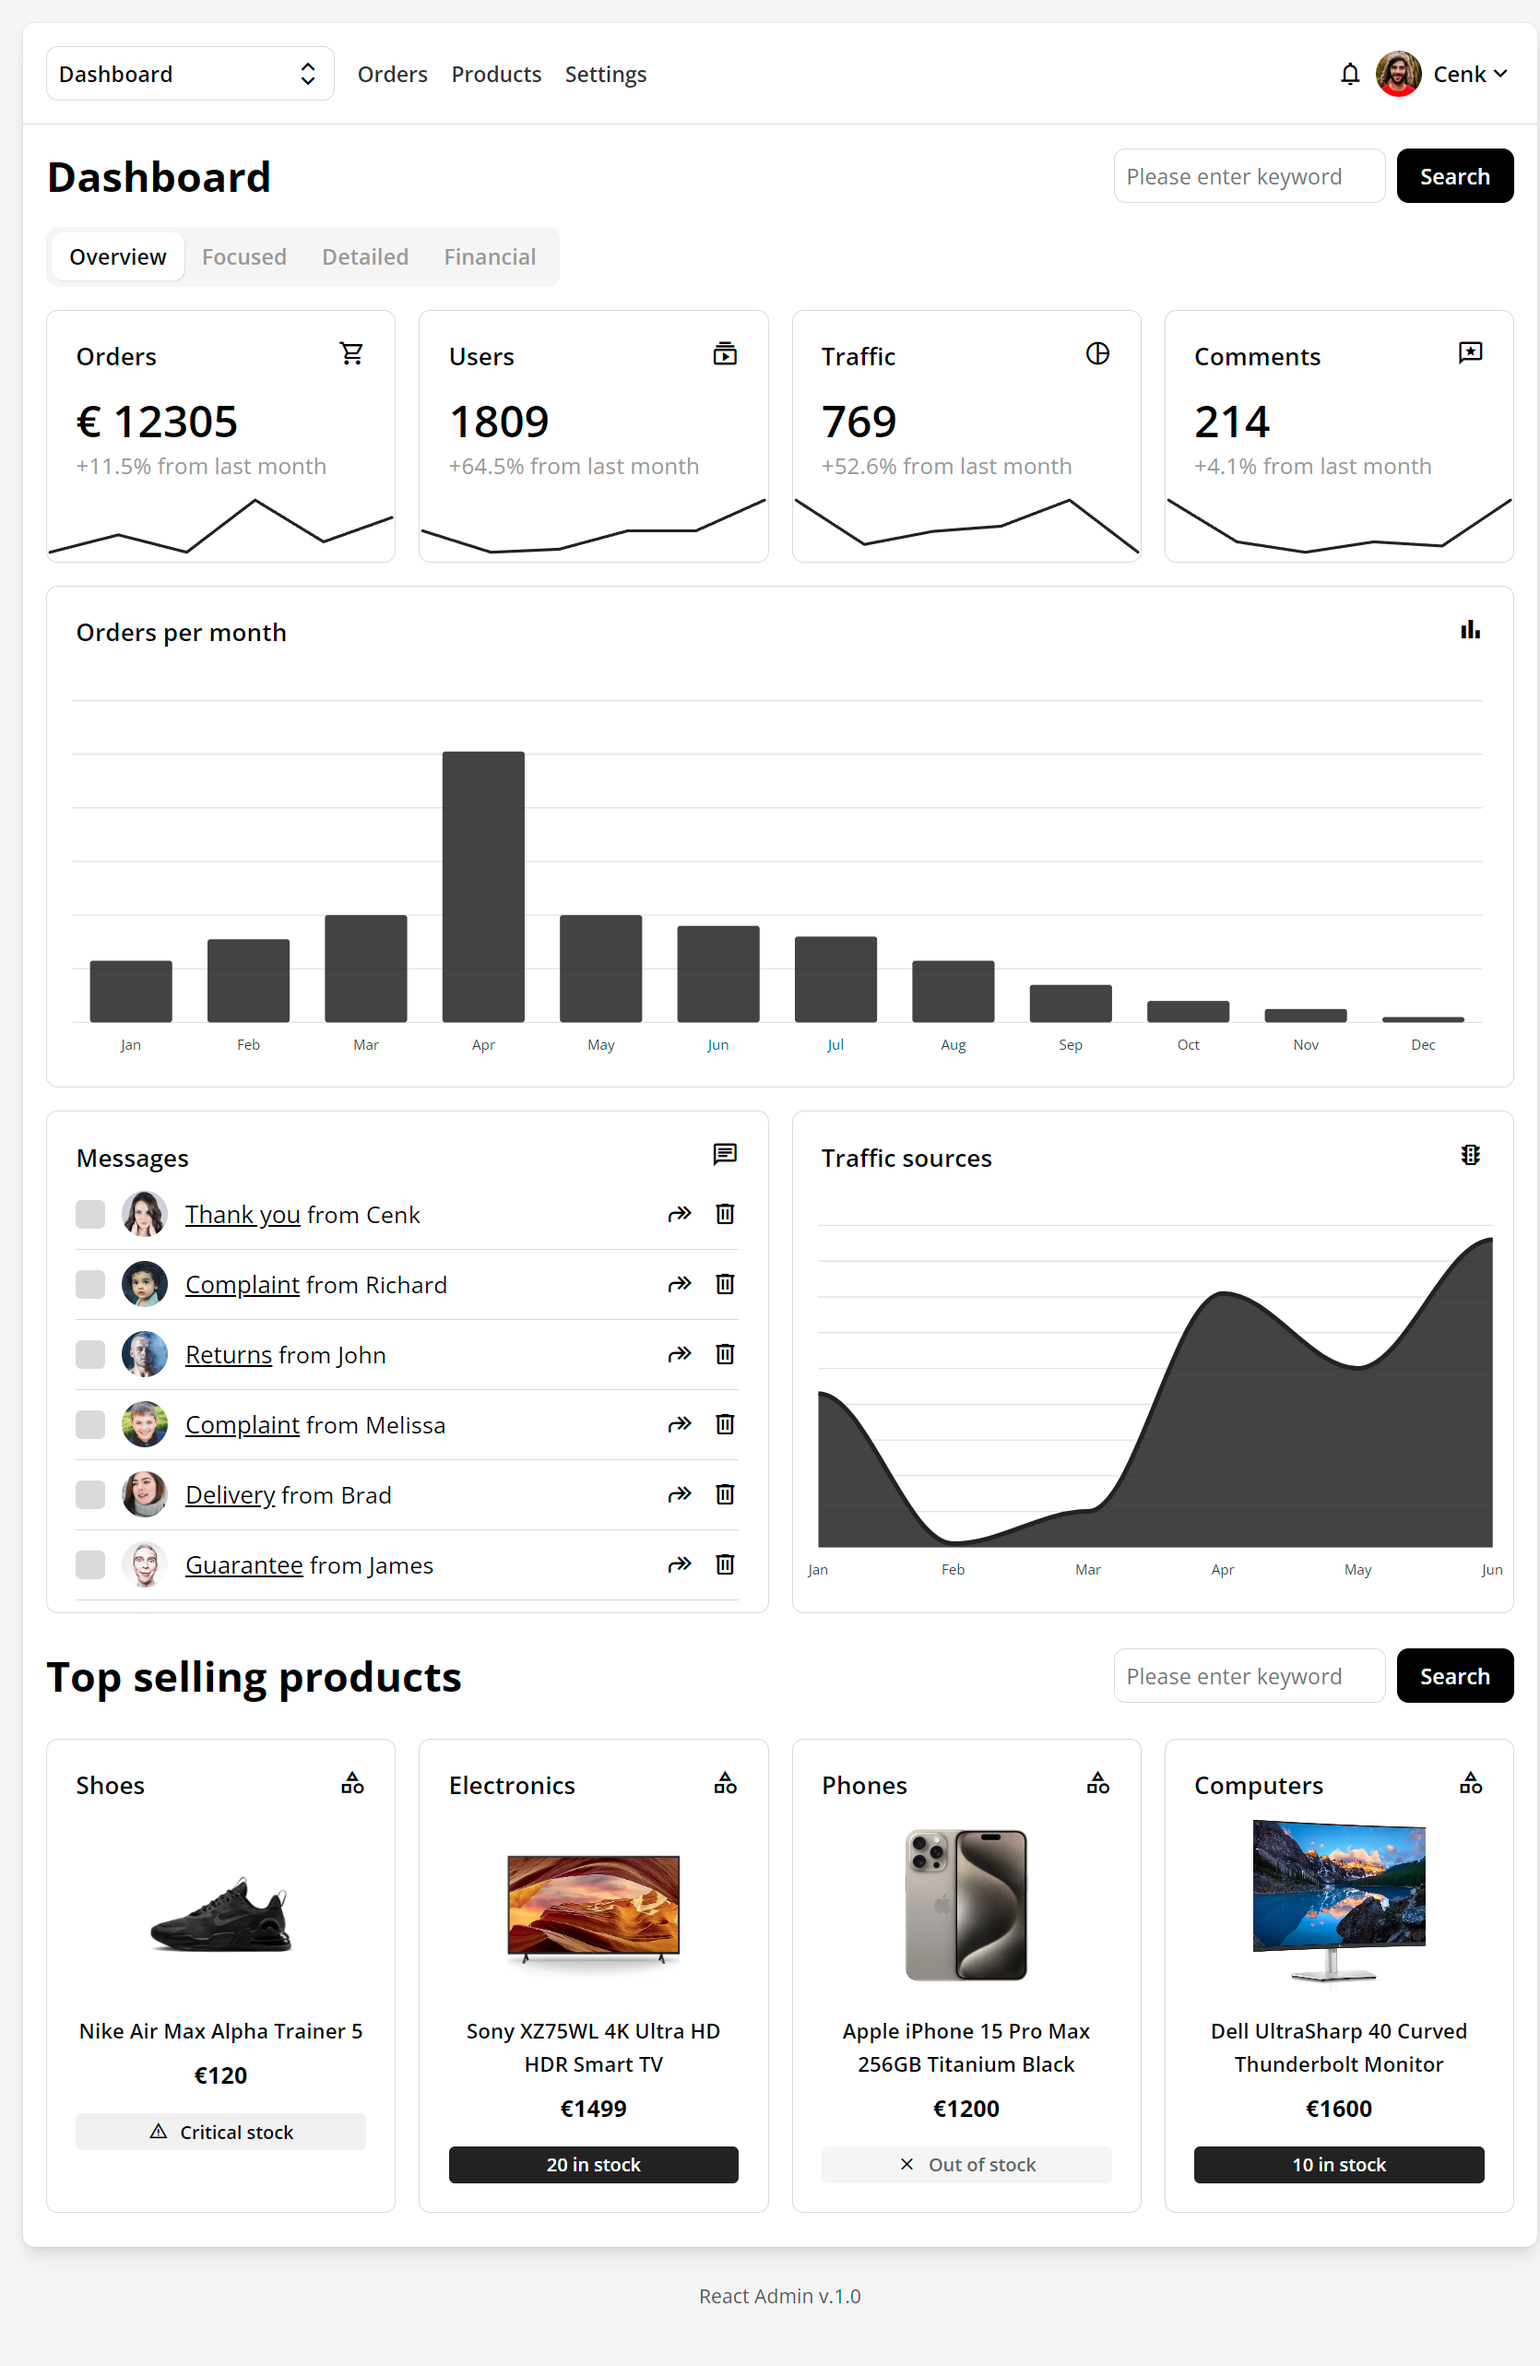
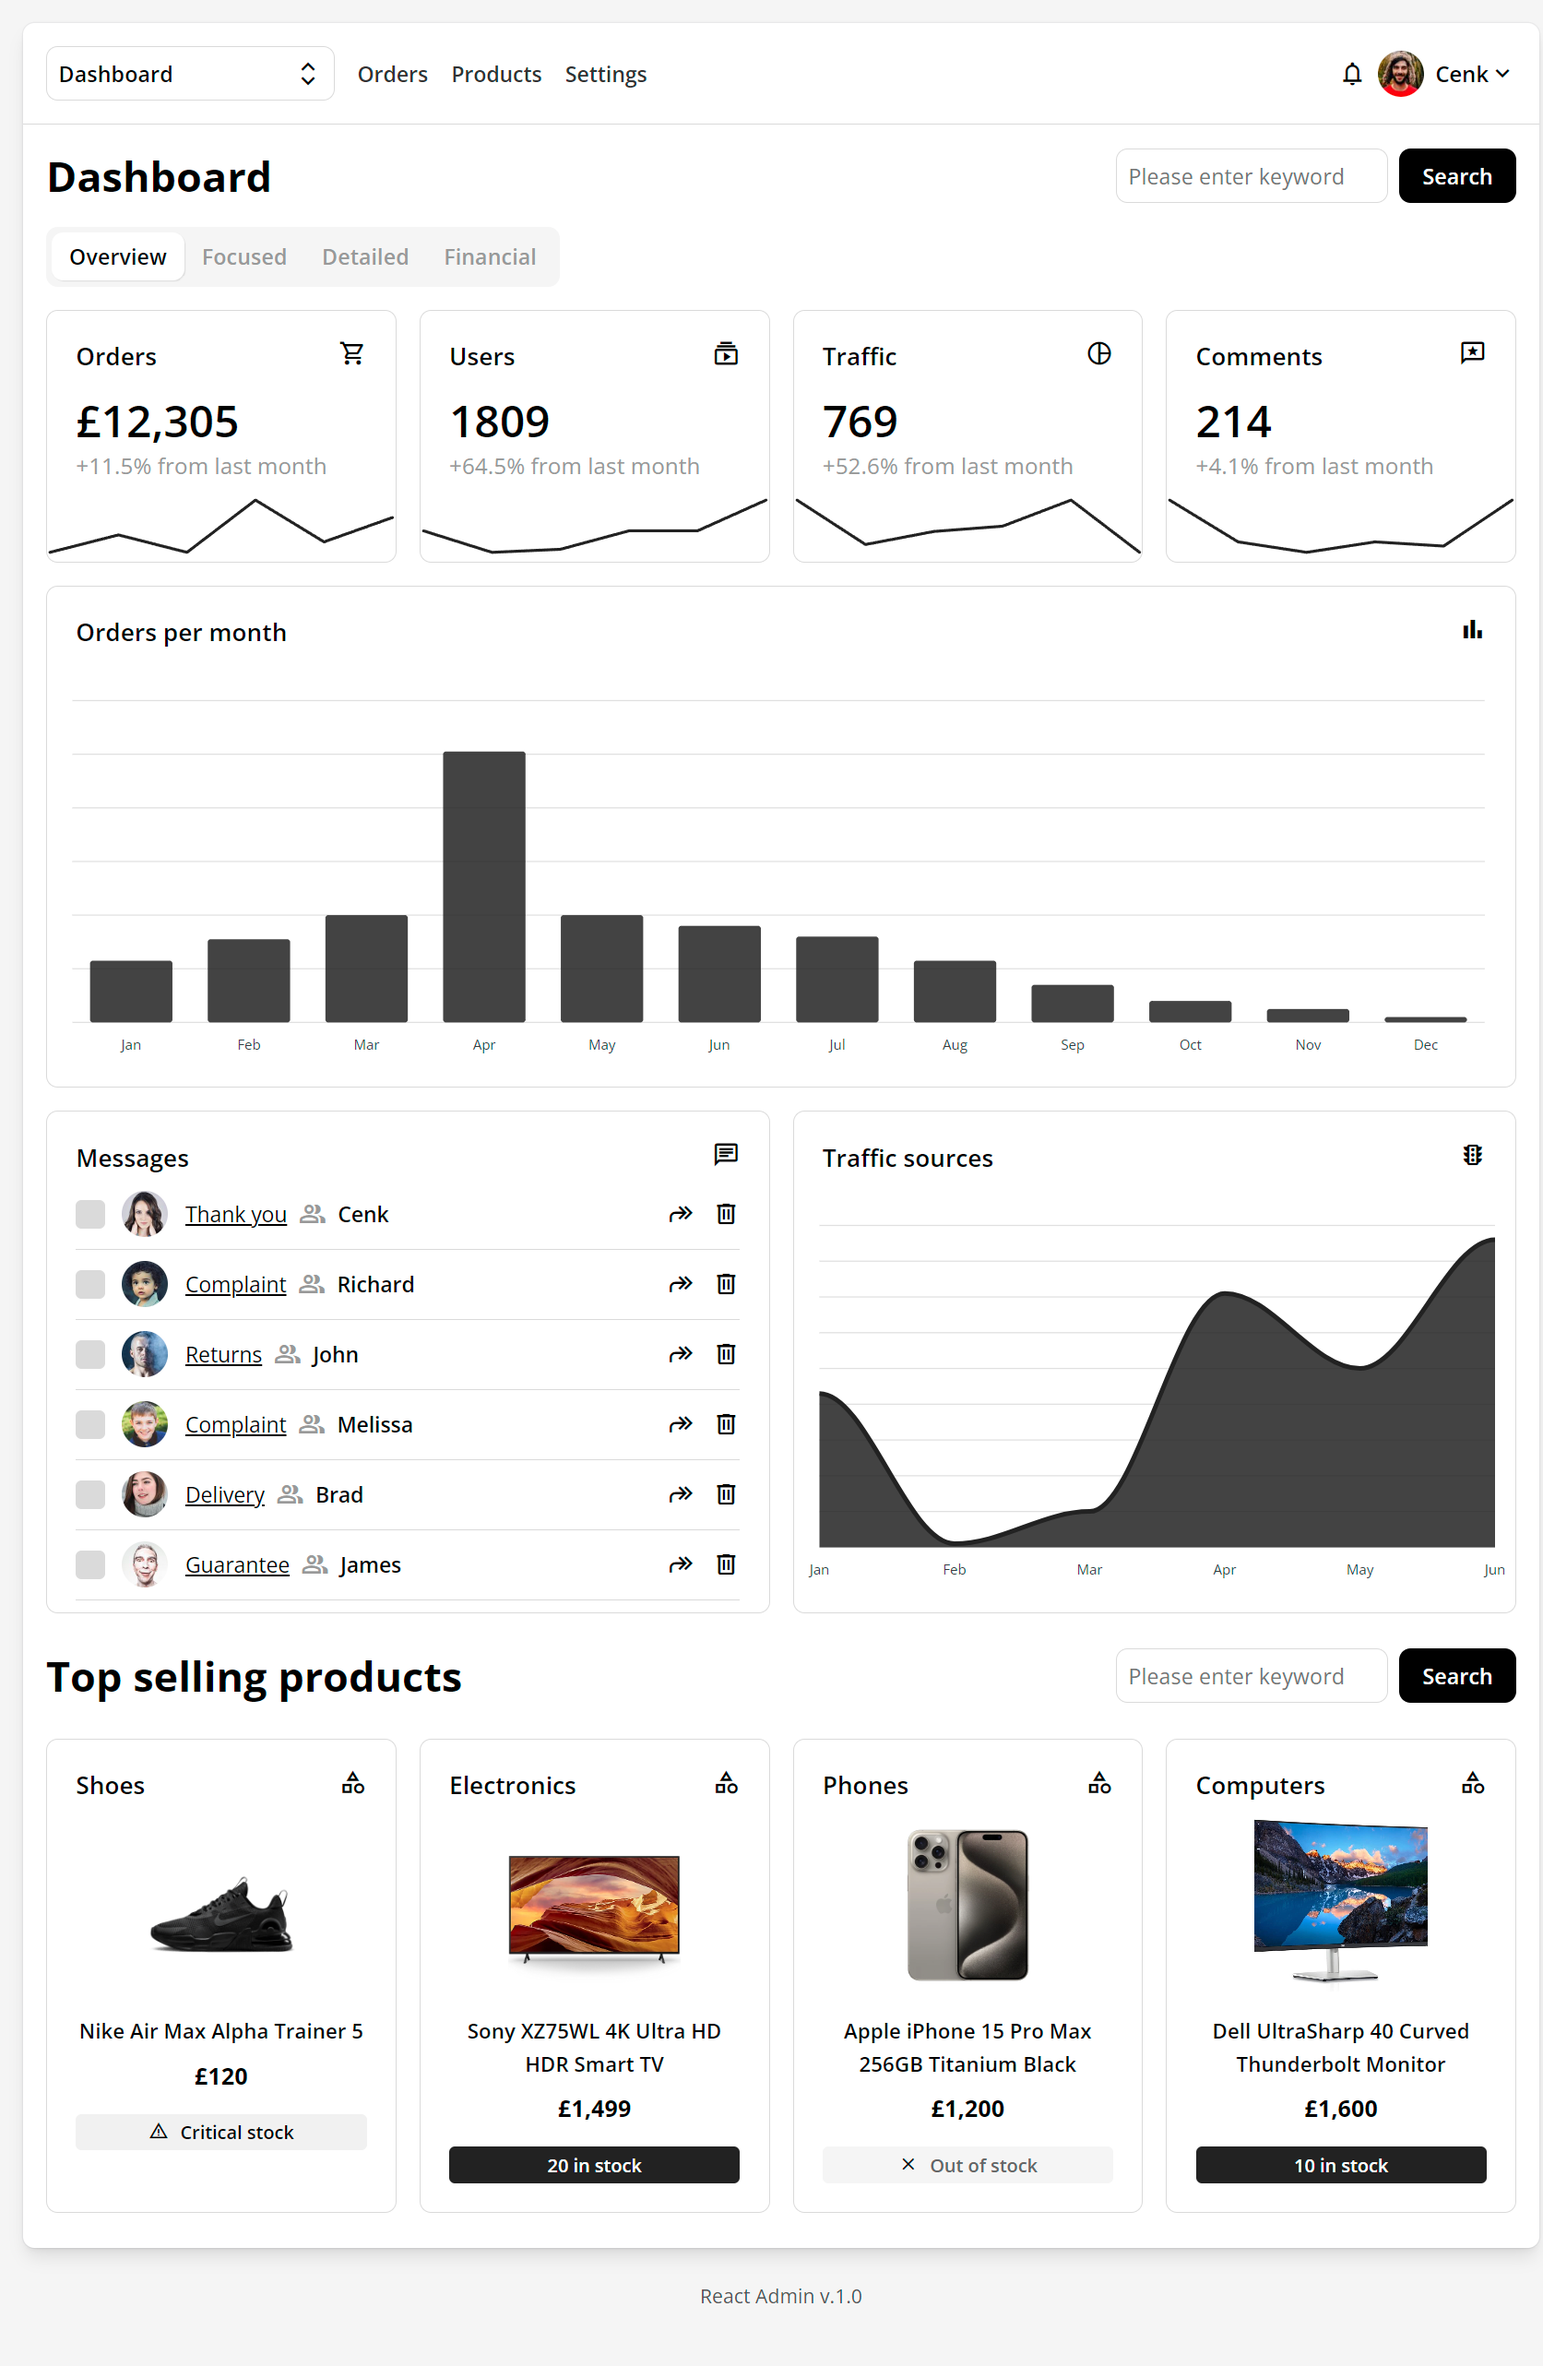
message line fix

diff --git a/src/components/Messages/MessageLine.tsx b/src/components/Messages/MessageLine.tsx
@@ -26,10 +26,10 @@ const MessageLine = ({ id, from, image, subject }: IProps): React.JSX.Element =>
     <div>
       <div className='cover user-photo no-margin' style={{ backgroundImage: `url('${image}')` }} />
     </div>
-    <div className='flex-grow'>
+    <div className='flex flex-v-center flex-grow'>
       <Link to={`/message/${id}`}>{subject}</Link>
-      {' '}
-      from {from}
+      <span className='material-symbols-outlined from'>people</span>
+      <strong>{from}</strong>
     </div>
     <div className='flex flex-gap'>
       <button type='button' className='pointer'>

diff --git a/public/site.css b/public/site.css
@@ -347,6 +347,7 @@ header {
 }
 
 .message {
+  font-size: 0.9em;
   margin-bottom: 10px;
   padding-bottom: 10px;
   border-bottom: 1px solid #dadada;
@@ -356,6 +357,11 @@ header {
   margin-bottom: 0;
   padding-bottom: 0;
   border-bottom: none;
+}
+
+.message .from {
+  margin: 0 10px;
+  color: #999999;
 }
 
 .scroller {
